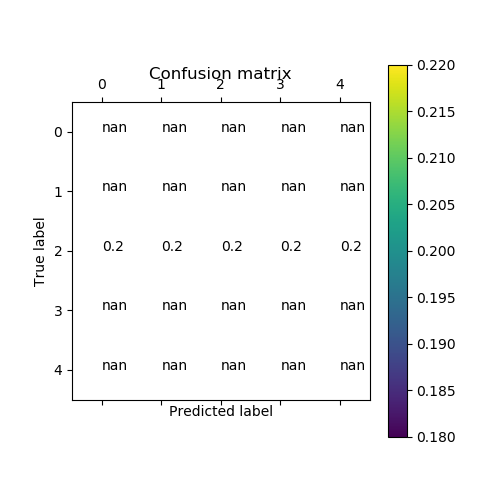
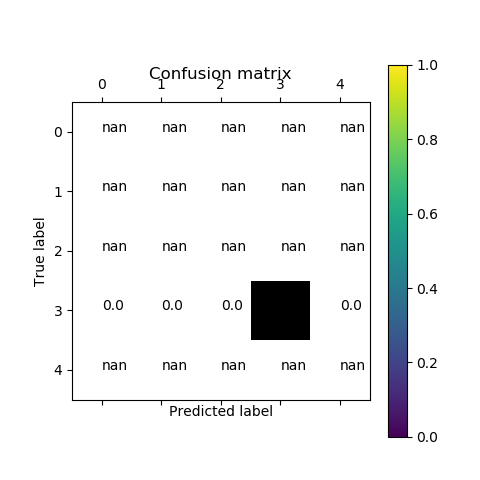
Errors was corrected

diff --git a/train.py b/train.py
@@ -62,7 +62,7 @@ def train(outputName, datasets, params):
     #teErrors.append(teError)
     
     # Indicate a new training on the result file
-    # = open(outputName + "_train.csv", "a") # Open the file (cursor at the end to not erasing eventual previous results)
+    #resultFile = open(outputName + "_train.csv", "a") # Open the file (cursor at the end to not erasing eventual previous results)
     #resultFile.write("Epoch|TrainCost|TrainAll|TrainRoot|TestCost|TestAll|TestRoot\n") # Record the data for the learning curve (format)
     #resultFile.close()
     
@@ -101,7 +101,7 @@ def train(outputName, datasets, params):
                 gradient = None
             
             # Plot progress every 10% of dataset covered
-            if len(trainingSet)//10 != 0 and nbSampleCovered % (len(trainingSet)//10) == 0:
+            if nbSampleCovered % (len(trainingSet)//1) == 0:
                 print("%d%% of dataset covered (%d/%d)" % ((nbSampleCovered*100 // len(trainingSet) + 1), nbSampleCovered, len(trainingSet)))
             nbSampleCovered += 1
             b+=1
@@ -111,12 +111,12 @@ def train(outputName, datasets, params):
         print("Compute errors...")
         trError, cMatTr = model.computeError(trainingSet)
         print(cMatTr)
-        utils.pltCMatrix(cMatTr , 'Train')
+        #utils.pltCMatrix(cMatTr , 'Train')
         
         teError, cMatTe = model.computeError(testingSet, True)
         print("Test  error: ", teError)
         #input(cMatTe)
-        utils.pltCMatrix(cMatTe, 'Test' )
+        #utils.pltCMatrix(cMatTe, 'Test' )
         
         
         trErrors.append(trError)
@@ -127,9 +127,9 @@ def train(outputName, datasets, params):
         print("Saving model...")
         model.saveModel(outputName) # The function also save the dictionary
         
-        resultFile = open(outputName + "_train.csv", "a") # Open the file (cursor at the end)
-        resultFile.write("%d|%s|%s\n" % (i, trError.toCsv(), teError.toCsv())) # Record the data for the learning curves
-        resultFile.close()
+        #resultFile = open(outputName + "_train.csv", "a") # Open the file (cursor at the end)
+        #resultFile.write("%d|%s|%s\n" % (i, trError.toCsv(), teError.toCsv())) # Record the data for the learning curves
+        #resultFile.close()
         
     # Record the learning curve
     xEpoch = []
@@ -178,8 +178,8 @@ def train(outputName, datasets, params):
     plt.title('Root only')
     plt.xlabel('Epoch')
     plt.ylabel('% of success')
-    
-    plt.savefig(outputName + '_learningCurve.png')
+    plt.show()
+    #plt.savefig(outputName + '_learningCurve.png')
     
     # Return perfs at the end
     #errors = []

diff --git a/rntnmodel.py b/rntnmodel.py
@@ -554,16 +554,7 @@ class ModelError:
         In the current version, it is not possible to plot inside a tree for debugging (crash when
         divide by 0), it is quite easy to correct though if really needed
         """
-        input(':|')
-        print('self.cost:              '+str(self.cost))
-        print('self.nbOfSample:        '+str(self.nbOfSample))
-        print('self.getRegCost():      '+str(self.getRegCost()))
-        print('self.getPercentNodes(): '+str(self.getPercentNodes()))
-        print('self.nbNodeCorrect:     '+str(self.nbNodeCorrect))
-        print('self.nbOfNodes:         '+str(self.nbOfNodes))
-        print('self.getPercentRoot():  '+str(self.getPercentRoot()))
-        print('self.nbRootCorrect:     '+str(self.nbRootCorrect))
-        input('self.nbOfSample:        '+str(self.nbOfSample))
+
         
         return "Cost=%4f | CostReg=%4f | Percent=%2f%% (%d/%d) | Percent(Root)=%2f%% (%d/%d)" % (
             self.cost/self.nbOfSample,

diff --git a/tree.py b/tree.py
@@ -20,7 +20,7 @@ class Node():
         self.level = None
         self.word  = None
         self.data  = None
-        self.label = None
+        self.label = -1
         self.output= None
 
 
@@ -54,9 +54,16 @@ class Tree:
 
     def createLeaf(self, timeSerie, level):
         leaf = Node()
-        #print((timeSerie.shape))
-        import random
-        leaf.label = random.randint(1,3)#timeSerie['target']
+        #input((timeSerie))
+        if(timeSerie['target'] > timeSerie['Close']):
+            leaf.label = 2
+        elif(timeSerie['target'] == timeSerie['Close']):
+            leaf.label = 1
+        elif(timeSerie['target'] < timeSerie['Close']):
+            leaf.label = 0
+        
+        
+        
         leaf.data = timeSerie.drop('target')
         #leaf.word = timeSerie.drop('target')
         leaf.word = vocabulary.vocab.addWord(str(leaf.data[0]))

diff --git a/vocabulary.py b/vocabulary.py
@@ -12,9 +12,8 @@ class Word:
     Turple which contain the word and its space representation
     """
     def __init__(self, word, idx):
-        self.string = word        
+        self.string = word
         self.idx = idx # Index of the word inside the L matrix
-
 
 class Vocab:
     def __init__(self, filename=None):
@@ -22,7 +21,6 @@ class Vocab:
         If the parameters is set, it will try to load the dictionary from
         the given filename
         """
-        #print(str(filename))
         self.dictionary = {} # List of Words (dictionary)
         self.currentIdx = 0
         if filename is not None:
@@ -49,6 +47,7 @@ class Vocab:
             found = Word(newWord, self.currentIdx)
             self.dictionary[newWord] = found
             self.currentIdx += 1
+        
         return found
         
     def length(self):

diff --git a/utils.py b/utils.py
@@ -47,8 +47,6 @@ def loadDataset(filename):
     """
     import pandas as pd
     import os
-    #print(os.getcwd())
-    #print(filename)
     dt = pd.read_csv(filename, header=0)
     
     #lines = dataFile.readlines()
@@ -90,7 +88,7 @@ def pltCMatrix(cMatrix,TrainOrTest):
             plt.text(j, i, format(cMatrix[i, j], '.1f'))
     plt.savefig(path + str(TrainOrTest) + "_cMat.png")
     print('Saving cMat Done!')
-    plt.show()
+    #plt.show()
 
 
 

diff --git a/main.py b/main.py
@@ -31,6 +31,7 @@ def main(outputName):
     # Loading dataset
     datasets = {}
     datasets['training'] = utils.loadDataset('sp500.csv');
+    
     print("Training loaded !")
     
     datasets['testing'] = utils.loadDataset('sp500.csv');
